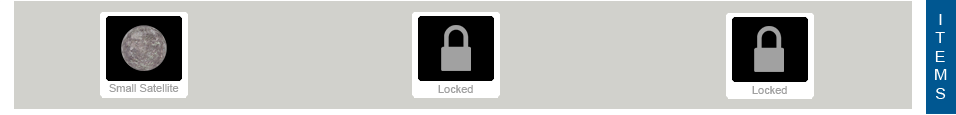
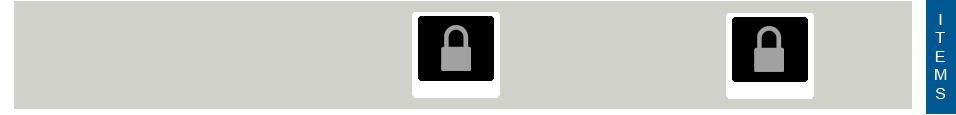
darken used item

Changed region(s): [[0.091, 0.1043, 0.2123, 0.8609], [0.7887, 0.7565, 0.8494, 0.8348], [0.455, 0.7565, 0.5157, 0.8087]]

diff --git a/bar.py b/bar.py
@@ -75,11 +75,13 @@ class ToolBar(Bar):
             self.items_one_placed += 1
             if self.items_one_placed >= self.items_one_limit:
                 self.items_one.x = -30
+                self.itemsTab.rock_item.dark()
 
     def items_reset(self,one=1):
         self.items_one_placed = 0
         self.items_one_limit = one
         self.items_one = pygame.Rect(119,667,55,45)
+        self.itemsTab.rock_item.light()
         
     def change_goal(self,image):
         self.barGoal.change_image(image)
@@ -113,35 +115,42 @@ class ItemsTab(Bar):
         self.xOpenOffset = x_open_offset
         self.xClosedOffset = x_closed_offset
         self.clickOffset = click_offset
+        self.rock_item = Item(x+106,652,friends,place)
 
     def update(self,pos,other):
         newx, newy = pos
         if self.rect.x < 2 and self.rect.x >= -912 and not self.open:
             self.rect.x = newx-917
             self.items_rect.x = newx-self.clickOffset
+            self.rock_item.rect.x = self.rect.x+106
         elif self.rect.x < 2 and self.rect.x >= -912 and self.open:
             self.rect.x = newx-954
             self.items_rect.x = newx-self.clickOffset
+            self.rock_item.rect.x = self.rect.x+106
         elif self.rect.x > -400:
             self.rect.x = 1
             self.items_rect.x = 914
             self.open = True
             other.grabbed = None
+            self.rock_item.rect.x = self.rect.x+106
         elif self.rect.x < -400:
             self.rect.x = -912
             self.items_rect.x = 7
             self.open = False
             other.grabbed = None
+            self.rock_item.rect.x = self.rect.x+106
         
     def dropped(self):
         if self.open == False:
             self.rect.x = 1
             self.items_rect.x = 914
             self.open = True
+            self.rock_item.rect.x = self.rect.x+106
         else:
             self.rect.x = -912
             self.items_rect.x = 1
             self.open = False
+            self.rock_item.rect.x = self.rect.x+106
 
 class MenuWidget(Bar):
     def __init__(self,x,y,friends,place,arrow,image=str('widget.png')):
@@ -219,3 +228,14 @@ class Arrow(Bar):
     def __init__(self,x,y,friends,place,image=str('arrow.png')):
         Bar.__init__(self,x,y,friends,place,image)
         
+
+class Item(Bar):
+    def __init__(self,x,y,friends,place,image=str('rock_item.png')):
+        Bar.__init__(self,x,y,friends,place,image)
+        self.img_txt = [(str('rock_item.png')),(str('rock_item_dark.png'))]
+
+    def dark(self):
+        self.image = system.load_graphics(self.img_txt[1])
+
+    def light(self):
+        self.image = system.load_graphics(self.img_txt[0])

diff --git a/player.py b/player.py
@@ -100,6 +100,9 @@ class Player(Sprite):
                 self.addAccel(planet)
             if self.addTail:
                 self.tail.newSpace(self.rect.x,self.rect.y,self.ax,self.ay)
+            slope = (self.vy-self.ay)/(self.vx-self.ax)
+            self.angle = ((math.atan(slope)*(180/math.pi))+45)
+            print self.angle
             self.rect.x += self.vx
             self.rect.y += self.vy
             self.vx += self.ax

diff --git a/user_items.py b/user_items.py
@@ -64,6 +64,7 @@ class UserPlanet(Sprite):
             self.bar.items_one_placed -= 1
             self.bar.items_one.x = 119
             self.kill()
+            self.bar.items_reset()
         elif pygame.sprite.collide_mask(self,self.player):
             x,y = self.og_place
             self.rect.x = x
